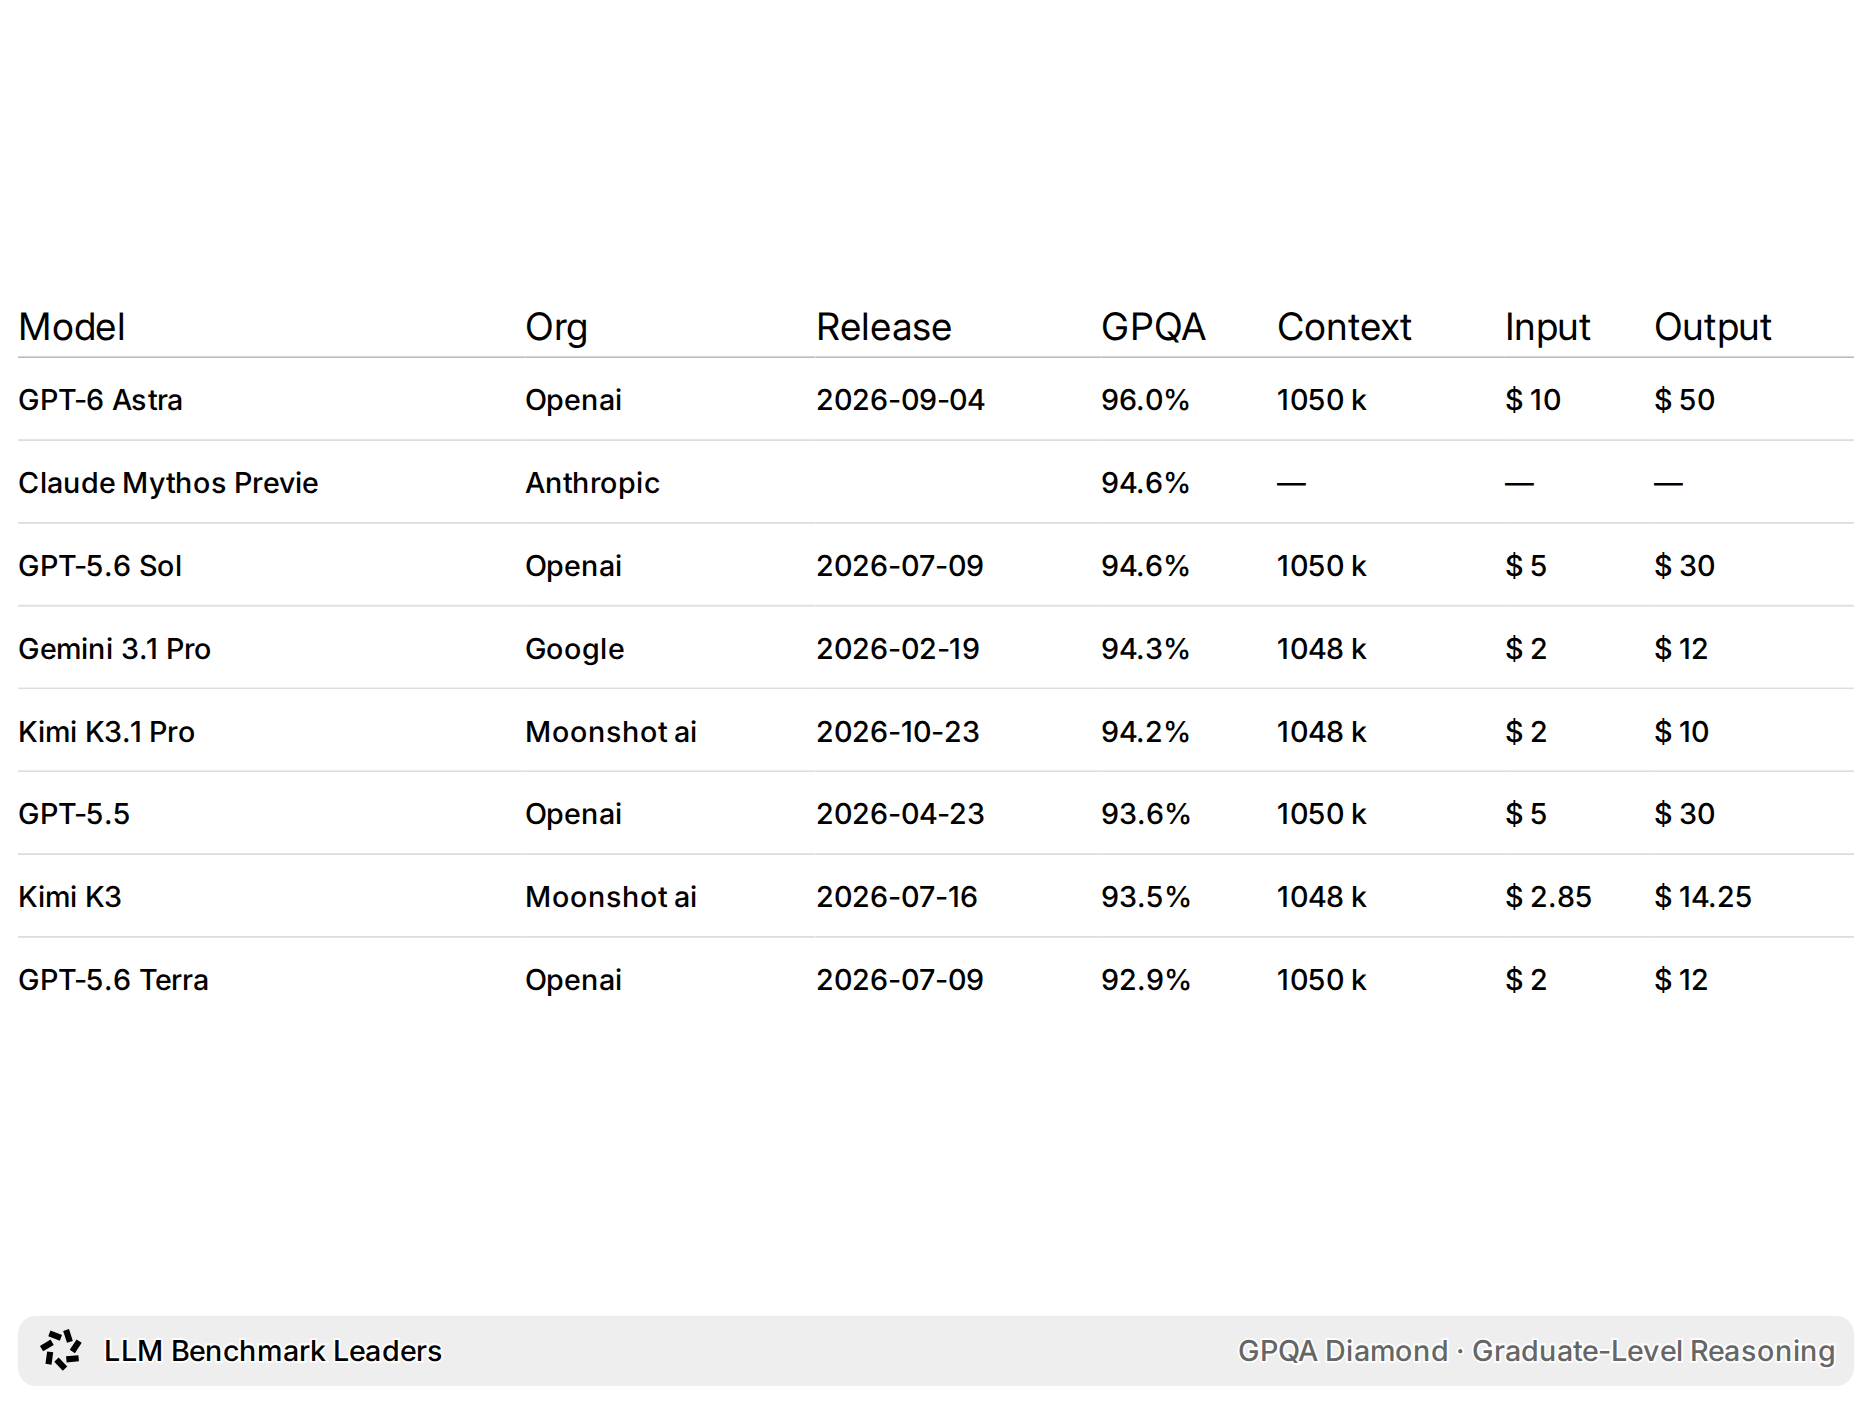
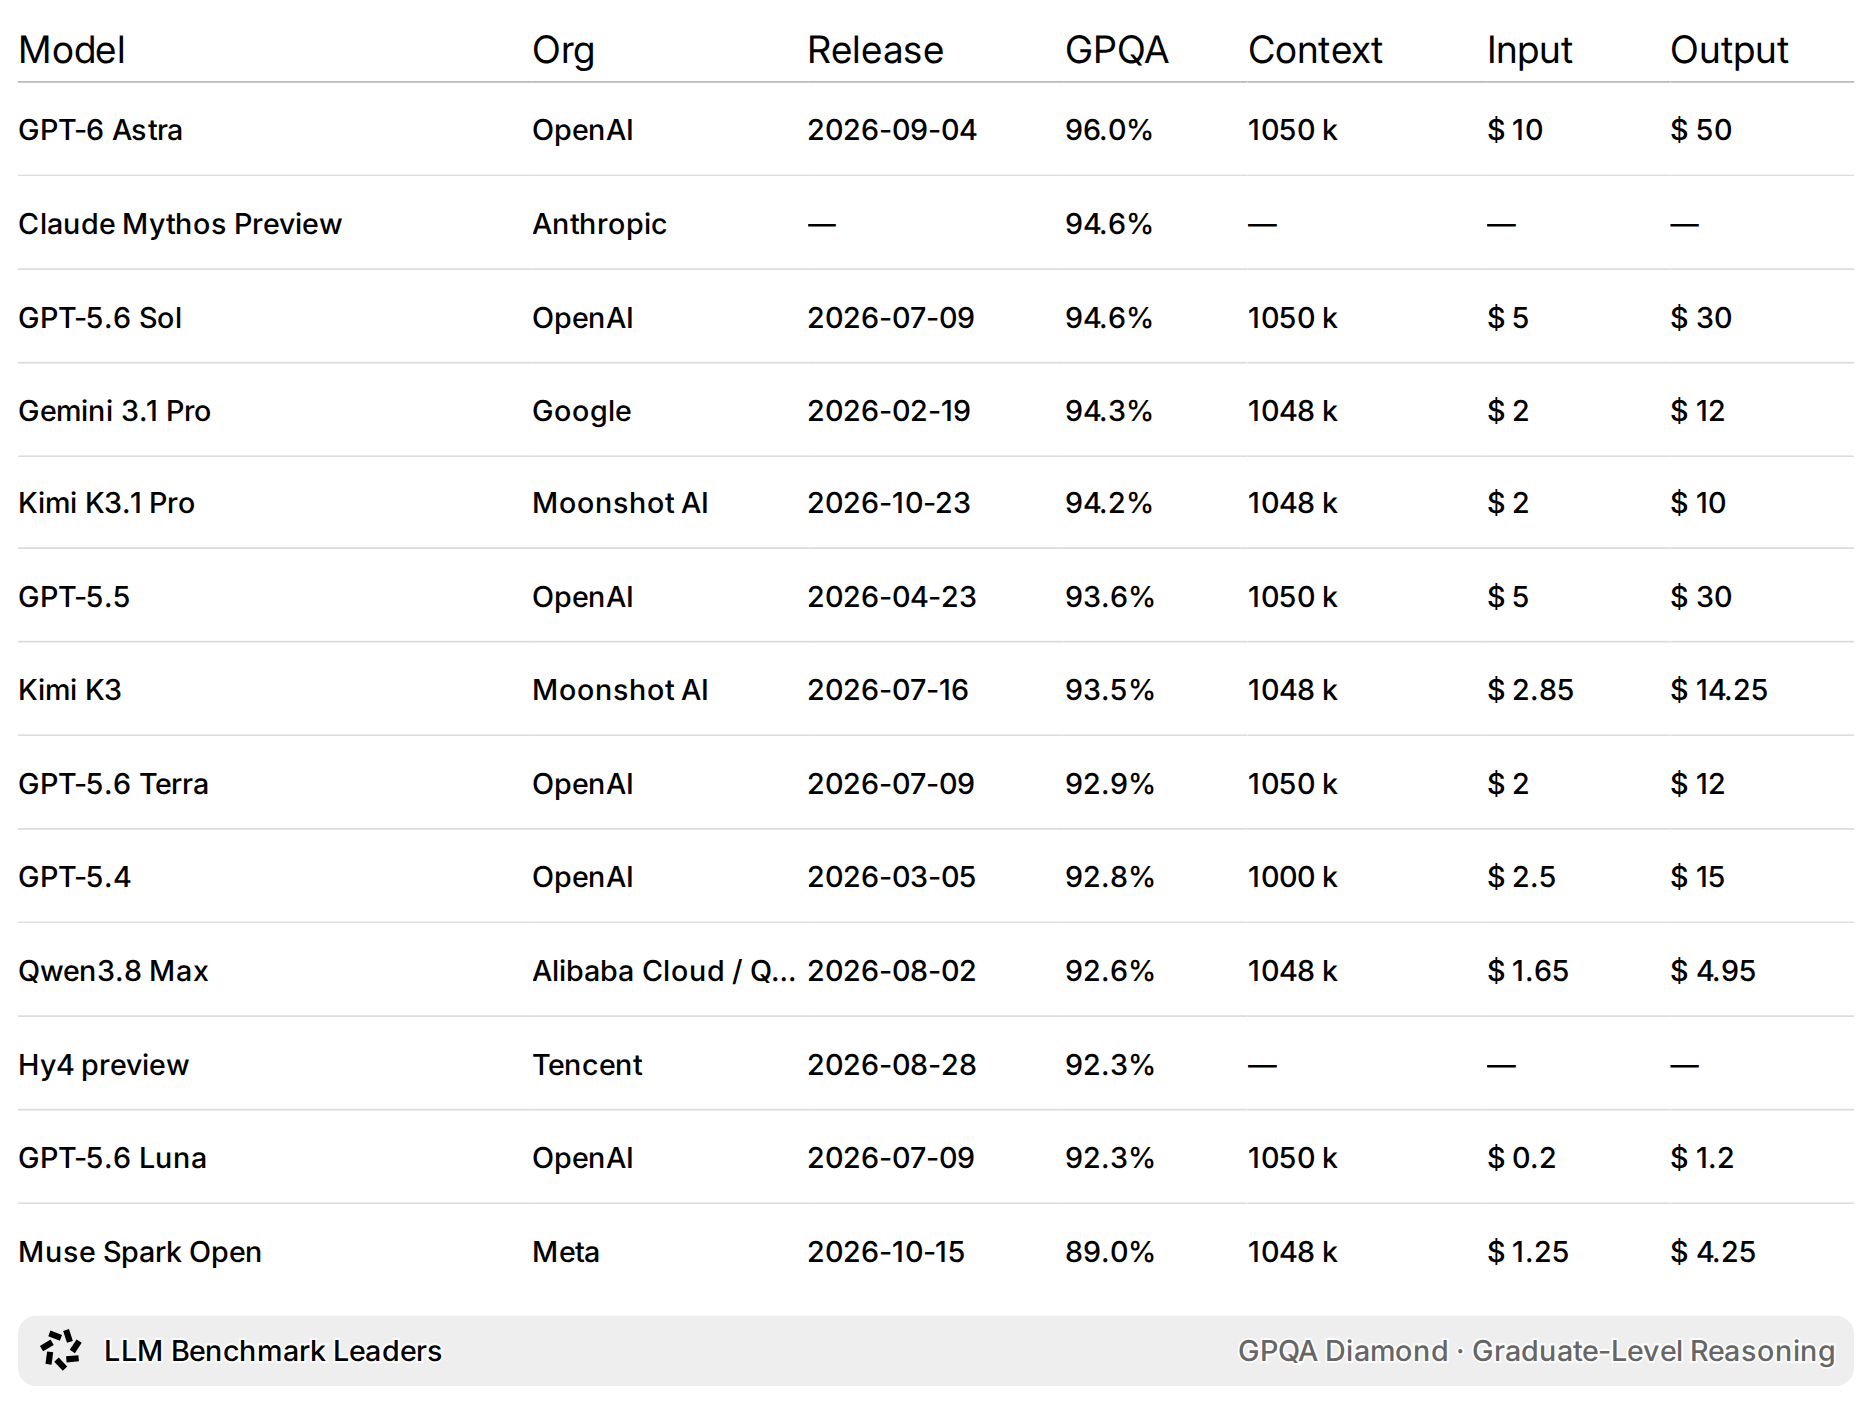
Fit full-screen benchmark rankings to the available panel height

diff --git a/llm-benchmark-leaders/tests/plugin_spec.rb b/llm-benchmark-leaders/tests/plugin_spec.rb
@@ -11,6 +11,30 @@ RSpec.describe 'LLM Benchmark Leaders' do
   let(:now) { Time.utc(2026, 11, 6, 12) }
   it_behaves_like 'a publishable recipe'
 
+  it 'uses the X screen height for ranked rows and preserves the model names' do
+    screen = trmnl.render(view: 'full', device: 'v2', orientation: :landscape, mocks:, now:)
+    metrics = screen.evaluate(<<~JS)
+      (() => {
+        const table = document.querySelector('.benchmark-table');
+        const rows = [...table.tBodies[0].rows].filter(row => row.offsetHeight > 0);
+        const bounds = table.getBoundingClientRect();
+        const layout = table.parentElement.getBoundingClientRect();
+        return {
+          names: rows.map(row => row.cells[0].textContent.trim()),
+          fill: bounds.height / layout.height,
+          topGap: Math.abs(bounds.top - layout.top),
+          bottom: bounds.bottom,
+          footer: document.querySelector('.title_bar').getBoundingClientRect().top
+        };
+      })()
+    JS
+    expect(metrics.fetch('names').length).to be > 8
+    expect(metrics.fetch('names')).to include('Claude Mythos Preview')
+    expect(metrics.fetch('fill')).to be_between(0.90, 1.01)
+    expect(metrics.fetch('topGap')).to be < 2
+    expect(metrics.fetch('bottom')).to be <= metrics.fetch('footer') + 1
+  end
+
   %w[full half_horizontal half_vertical quadrant].each do |view|
     %i[landscape portrait].each do |orientation|
       it "fits #{view} in #{orientation}" do

diff --git a/llm-benchmark-leaders/README.md b/llm-benchmark-leaders/README.md
@@ -5,6 +5,13 @@
 Public feed snapshot: November 6, 2026. OG full screen; maintained revision.
 
 <details>
+<summary>TRMNL X full screen with GPQA Diamond</summary>
+
+![GPQA Diamond rankings on the TRMNL X](images/full-x.png)
+
+</details>
+
+<details>
 <summary>OG with SWE-bench Pro</summary>
 
 ![llm-benchmark-leaders — OG with SWE-bench Pro](images/alternate.png)
@@ -19,6 +26,10 @@ Compare models on one reported benchmark using the public
 Choose a benchmark or rotate a capability-diverse group each UTC day. Prices
 are source-reported USD per million input/output tokens. Scores are the
 source's reported results, not an overall model recommendation.
+
+The full-screen table fits the number of rankings to the panel height. Narrow
+layouts show model, score, and context. Wider layouts also show organization,
+release date, and token prices.
 
 This folder starts from the published leaderboard exported on November 6,
 2026. It keeps that product rather than the separate experimental decision
